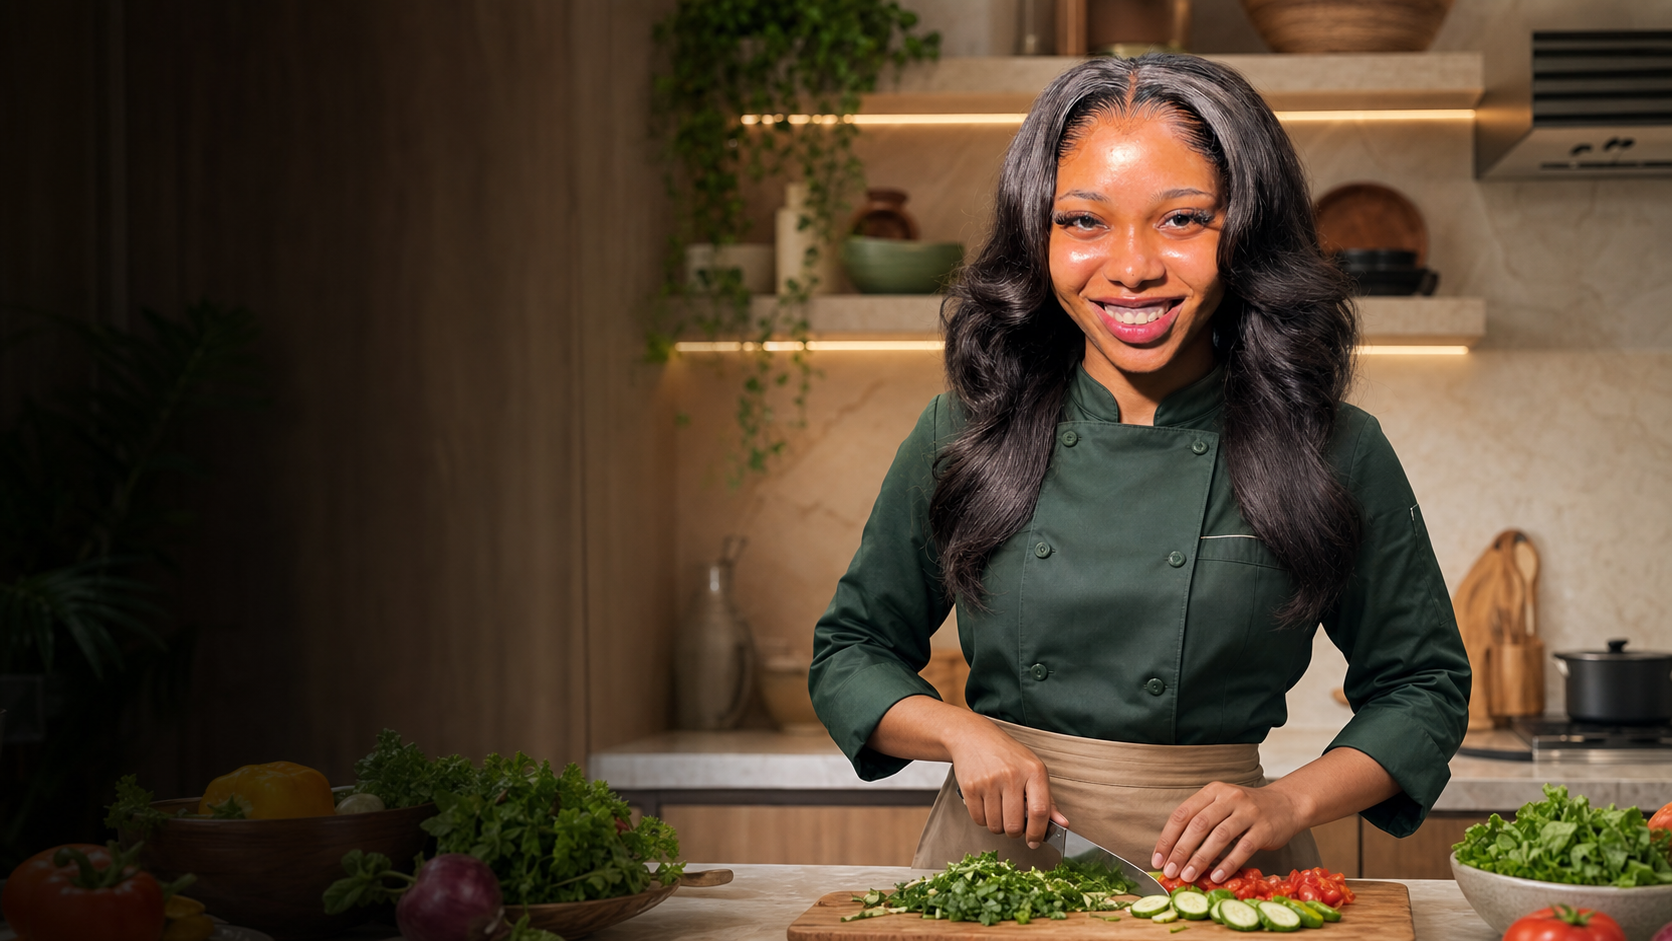
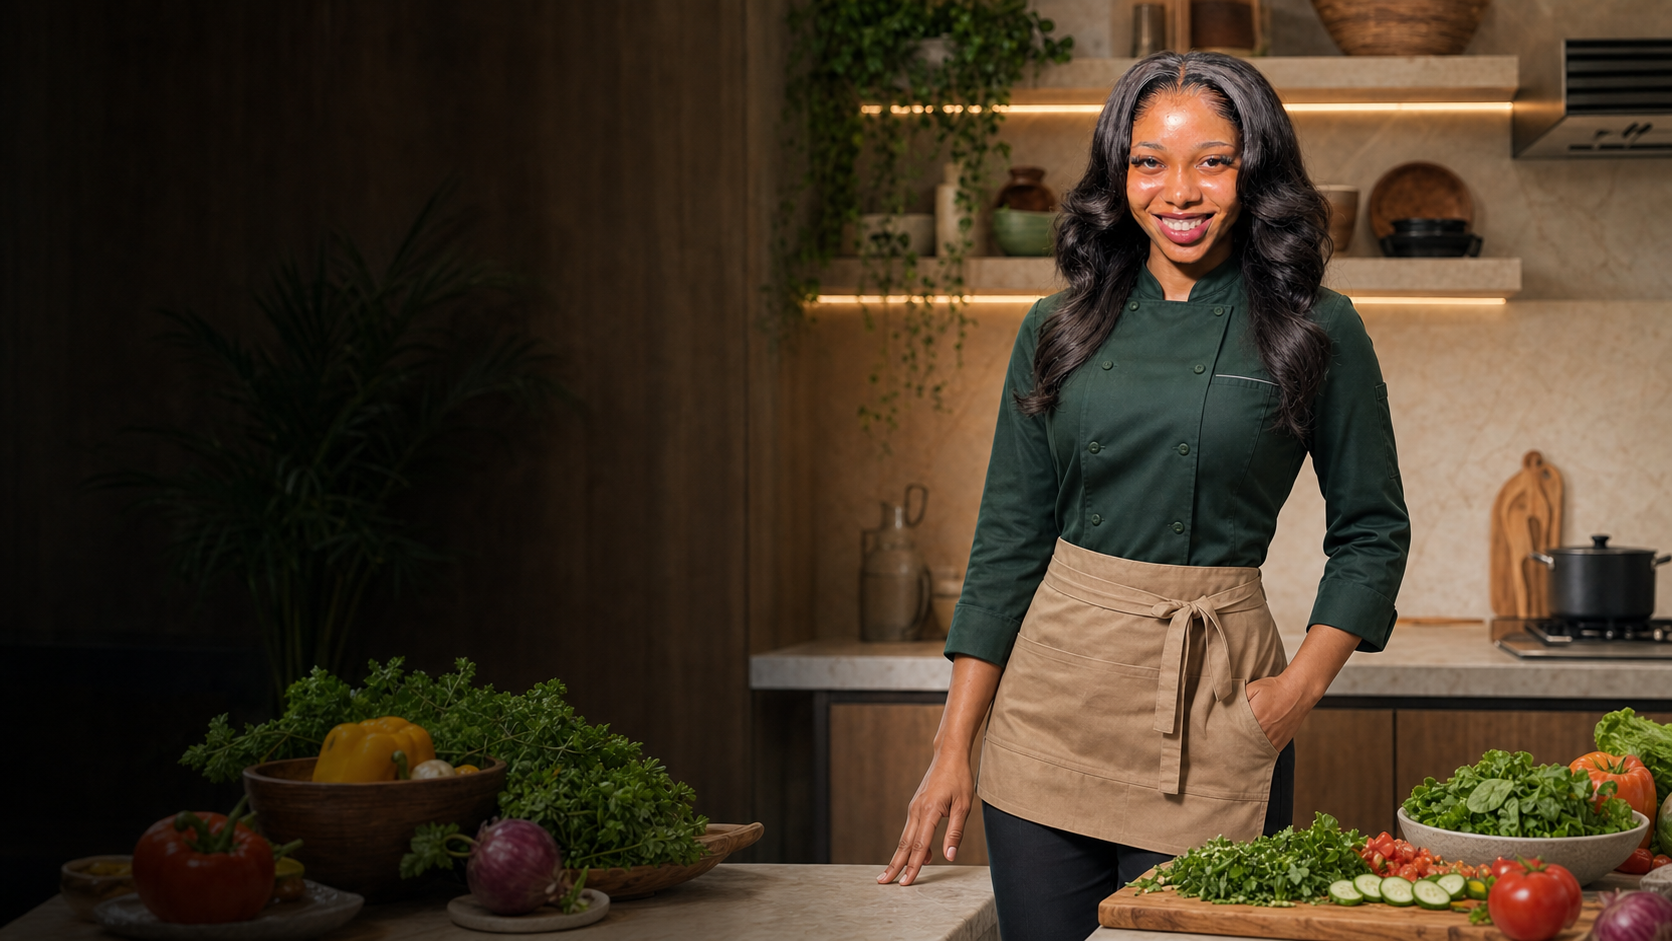
Add dedicated Chef Sahmmy landing section

diff --git a/src/styles.css b/src/styles.css
@@ -610,6 +610,96 @@ main {
   text-transform: uppercase;
 }
 
+.chef-story {
+  background: var(--cream);
+  padding: clamp(70px, 9vw, 120px) max(18px, calc((100vw - 1240px) / 2));
+}
+
+.chef-story-scene {
+  position: relative;
+  display: grid;
+  min-height: min(760px, 88svh);
+  align-items: center;
+  overflow: hidden;
+  border: 1px solid rgba(18, 55, 42, 0.12);
+  border-radius: 42px;
+  background: var(--evergreen);
+  box-shadow: 0 36px 90px rgba(18, 55, 42, 0.16);
+}
+
+.chef-story-scene > img,
+.chef-story-shade {
+  position: absolute;
+  inset: 0;
+  width: 100%;
+  height: 100%;
+}
+
+.chef-story-scene > img {
+  object-fit: cover;
+  object-position: center;
+}
+
+.chef-story-shade {
+  background: linear-gradient(90deg, rgba(9, 31, 24, 0.96) 0%, rgba(9, 31, 24, 0.78) 34%, rgba(9, 31, 24, 0.12) 68%, transparent 100%);
+}
+
+.chef-story-copy {
+  position: relative;
+  z-index: 2;
+  max-width: 560px;
+  color: var(--cream);
+  padding: clamp(34px, 6vw, 76px);
+}
+
+.chef-story-kicker,
+.chef-story-notes span {
+  display: inline-flex;
+  align-items: center;
+  gap: 8px;
+}
+
+.chef-story-kicker {
+  color: #f2c35e;
+  font-size: 0.78rem;
+  font-weight: 900;
+  letter-spacing: 0.14em;
+  text-transform: uppercase;
+}
+
+.chef-story-copy h2 {
+  max-width: 480px;
+  margin: 20px 0;
+  color: var(--cream);
+  font-family: "Playfair Display", Georgia, serif;
+  font-size: clamp(4rem, 7vw, 7rem);
+  line-height: 0.86;
+}
+
+.chef-story-copy > p {
+  max-width: 500px;
+  color: rgba(251, 247, 239, 0.82);
+  font-size: clamp(1rem, 1.4vw, 1.15rem);
+  line-height: 1.7;
+}
+
+.chef-story-notes {
+  display: flex;
+  flex-wrap: wrap;
+  gap: 10px;
+  margin-top: 28px;
+}
+
+.chef-story-notes span {
+  border: 1px solid rgba(251, 247, 239, 0.2);
+  border-radius: 999px;
+  background: rgba(251, 247, 239, 0.1);
+  padding: 11px 14px;
+  color: var(--cream);
+  font-size: 0.8rem;
+  font-weight: 800;
+}
+
 .cook-pin {
   min-height: 112svh;
   overflow: hidden;
@@ -620,11 +710,9 @@ main {
   position: relative;
   display: grid;
   min-height: 100svh;
-  align-items: center;
-  justify-items: start;
+  place-items: center;
   overflow: hidden;
   background: var(--evergreen);
-  padding-inline: max(18px, calc((100vw - 1180px) / 2));
 }
 
 .cook-image-mask img {
@@ -633,19 +721,19 @@ main {
   width: 100%;
   height: 100%;
   object-fit: cover;
-  object-position: center;
 }
 
 .cook-overlay {
   position: relative;
   z-index: 2;
-  max-width: 570px;
+  max-width: 740px;
+  margin: auto;
   border: 1px solid rgba(251, 247, 239, 0.2);
   border-radius: 34px;
   background: rgba(18, 55, 42, 0.78);
   color: var(--cream);
   padding: clamp(28px, 5vw, 58px);
-  text-align: left;
+  text-align: center;
   backdrop-filter: blur(12px);
 }
 
@@ -656,13 +744,13 @@ main {
 
 .cook-overlay p {
   max-width: 560px;
-  margin: 22px 0 28px;
+  margin: 22px auto 28px;
 }
 
 .cooking-tools {
   display: flex;
   flex-wrap: wrap;
-  justify-content: flex-start;
+  justify-content: center;
   gap: 12px;
 }
 
@@ -926,35 +1014,60 @@ main {
     grid-template-columns: 1fr;
   }
 
+  .chef-story {
+    padding: 64px 16px;
+  }
+
+  .chef-story-scene {
+    min-height: 0;
+    grid-template-rows: 430px auto;
+    align-items: stretch;
+    border-radius: 28px;
+  }
+
+  .chef-story-scene > img {
+    position: relative;
+    inset: auto;
+    grid-row: 1;
+    object-position: 70% center;
+  }
+
+  .chef-story-shade {
+    display: none;
+  }
+
+  .chef-story-copy {
+    grid-row: 2;
+    max-width: none;
+    padding: 30px 22px 34px;
+  }
+
+  .chef-story-copy h2 {
+    font-size: clamp(3.4rem, 16vw, 5rem);
+  }
+
   .cook-pin,
   .cook-image-mask {
-    min-height: 780px;
+    min-height: auto;
   }
 
   .cook-image-mask {
-    align-items: end;
-    padding: 300px 16px 42px;
+    padding: 72px 16px;
     clip-path: none !important;
   }
 
   .cook-image-mask img {
     position: absolute;
-    object-position: 68% center;
   }
 
   .cook-overlay {
-    max-width: 100%;
     border-radius: 26px;
-    padding: 26px 22px;
   }
 
   .closing-cta h2,
+  .cook-overlay h2,
   .nutrition-copy h2 {
     font-size: clamp(3rem, 14vw, 4.4rem);
-  }
-
-  .cook-overlay h2 {
-    font-size: clamp(2.35rem, 11vw, 3.4rem);
   }
 
   .footer-bottom {

diff --git a/src/sections/ChefStorySection.tsx b/src/sections/ChefStorySection.tsx
@@ -1,0 +1,30 @@
+import { ChefHat, Leaf, Sparkles } from "lucide-react";
+import { assets } from "../data/assets";
+
+export function ChefStorySection() {
+  return (
+    <section className="chef-story" aria-labelledby="chef-story-title">
+      <div className="chef-story-scene scene-card">
+        <img
+          src={assets.chefSahmmy}
+          alt="Chef Sahmmy standing in a warm modern kitchen surrounded by fresh ingredients"
+        />
+        <div className="chef-story-shade" aria-hidden="true" />
+        <div className="chef-story-copy">
+          <span className="chef-story-kicker">
+            <ChefHat size={18} /> From the kitchen
+          </span>
+          <h2 id="chef-story-title">Meet Chef Sahmmy.</h2>
+          <p>
+            Good meals do not start with a perfect pantry. They start with knowing what you have,
+            choosing what feels right, and cooking with confidence.
+          </p>
+          <div className="chef-story-notes" aria-label="Pantry-to-Plate cooking values">
+            <span><Sparkles size={16} /> Cook with confidence</span>
+            <span><Leaf size={16} /> Waste less</span>
+          </div>
+        </div>
+      </div>
+    </section>
+  );
+}

diff --git a/src/sections/CookingSection.tsx b/src/sections/CookingSection.tsx
@@ -5,10 +5,7 @@ export function CookingSection() {
   return (
     <section id="cook" className="cook-pin">
       <div className="cook-image-mask">
-        <img
-          src={assets.cooking}
-          alt="Chef Sahmmy preparing fresh vegetables in a warm modern kitchen"
-        />
+        <img src={assets.cooking} alt="Hands slicing cucumber beside tomatoes on a cutting board" />
         <div className="cook-overlay">
           <ChefHat size={40} />
           <h2>Cooking mode keeps the counter clear.</h2>

diff --git a/src/data/assets.ts b/src/data/assets.ts
@@ -3,6 +3,7 @@ import pantryJars from "../../assets/asset_4.png";
 import recipeBowl from "../../assets/asset_6.png";
 import groceryBag from "../../assets/asset_2.png";
 import herbDetail from "../../assets/asset_3.png";
+import cookingMode from "../../assets/asset_1.png";
 import chefSahmmyKitchen from "../../assets/chef-sahmmy-kitchen.png";
 import logoMark from "../../assets/carrots.png";
 
@@ -12,7 +13,8 @@ export const assets = {
   recipe: recipeBowl,
   grocery: groceryBag,
   herbs: herbDetail,
-  cooking: chefSahmmyKitchen,
+  cooking: cookingMode,
+  chefSahmmy: chefSahmmyKitchen,
   logo: logoMark,
 };
 

diff --git a/src/pages/public/LandingPage.tsx b/src/pages/public/LandingPage.tsx
@@ -4,6 +4,7 @@ import { Loader } from "../../components/Loader";
 import { StatsBar } from "../../components/StatsBar";
 import { usePageAnimations } from "../../hooks/usePageAnimations";
 import { CookingSection } from "../../sections/CookingSection";
+import { ChefStorySection } from "../../sections/ChefStorySection";
 import { FeatureRailSection } from "../../sections/FeatureRailSection";
 import { FooterSection } from "../../sections/FooterSection";
 import { HeroSection } from "../../sections/HeroSection";
@@ -30,6 +31,7 @@ export function LandingPage() {
       <HeroSection />
       <StatsBar />
       <MessageSection />
+      <ChefStorySection />
       <FeatureRailSection horizontalRef={horizontalRef} />
       <NutritionSection />
       <CookingSection />